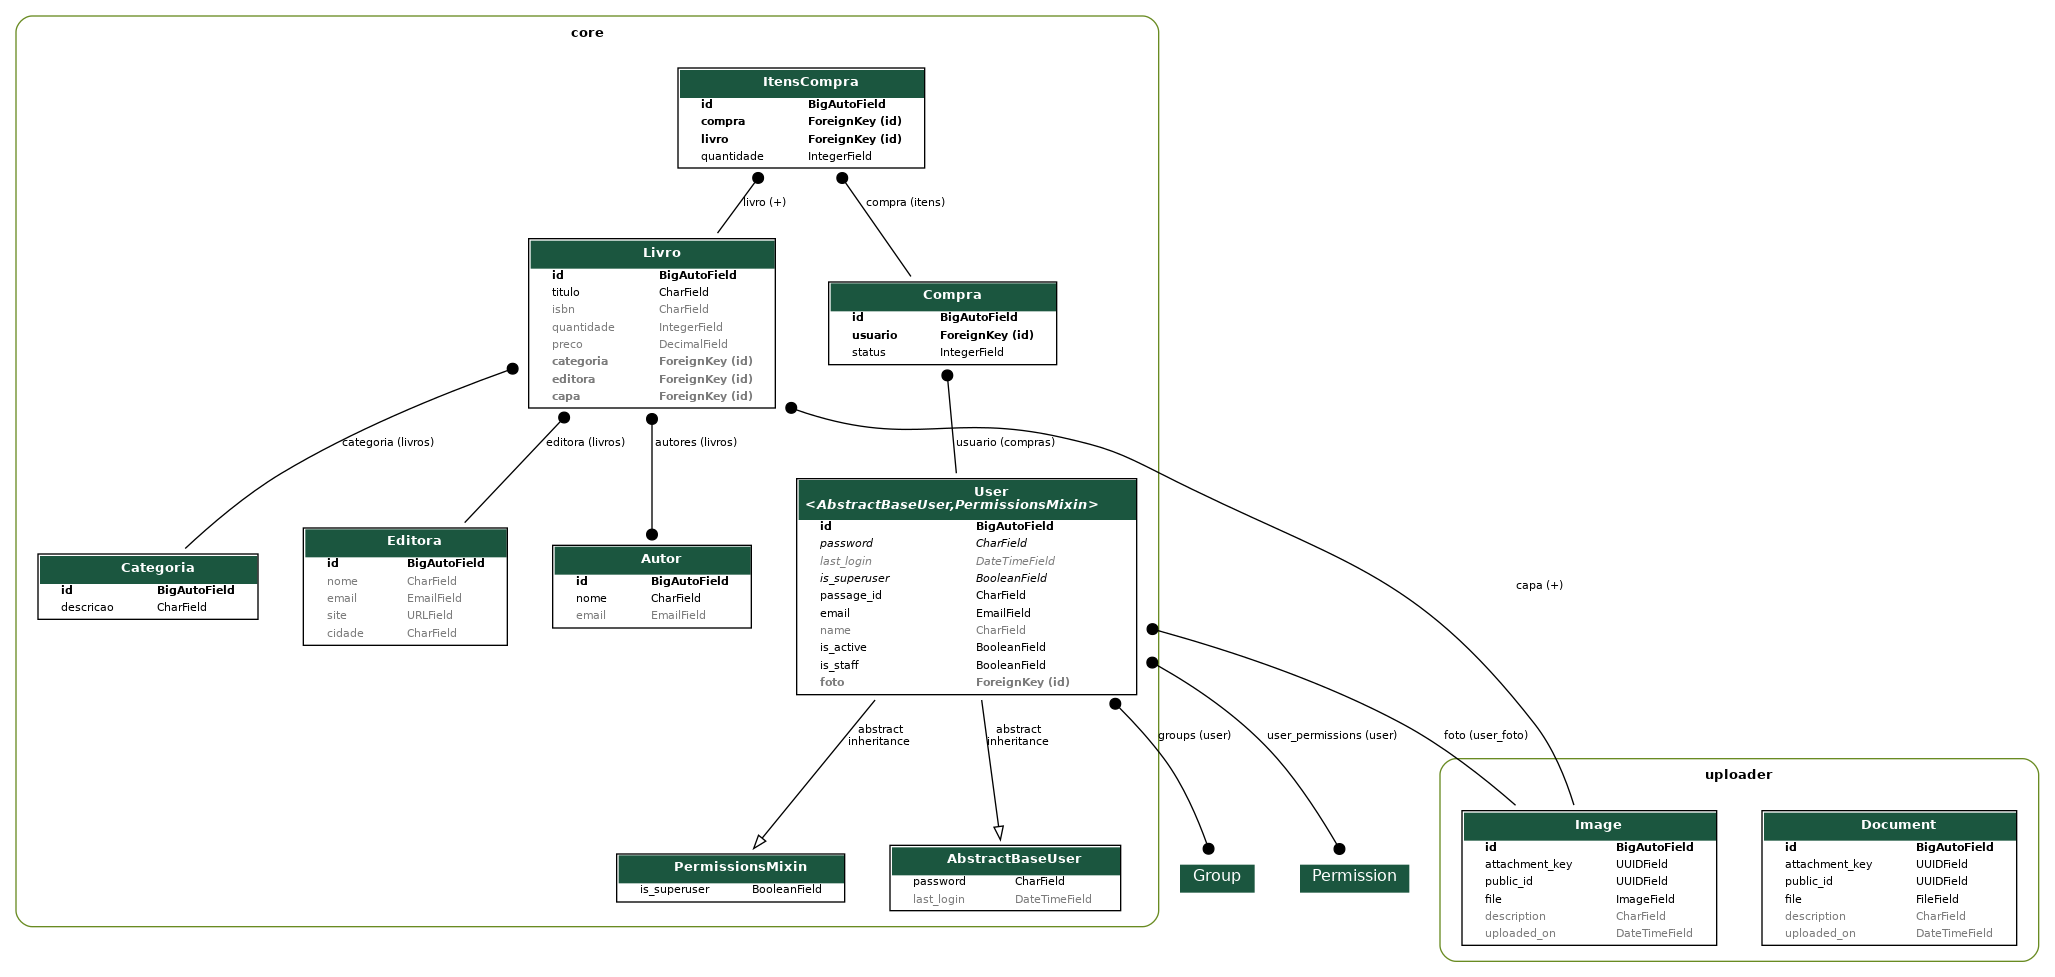
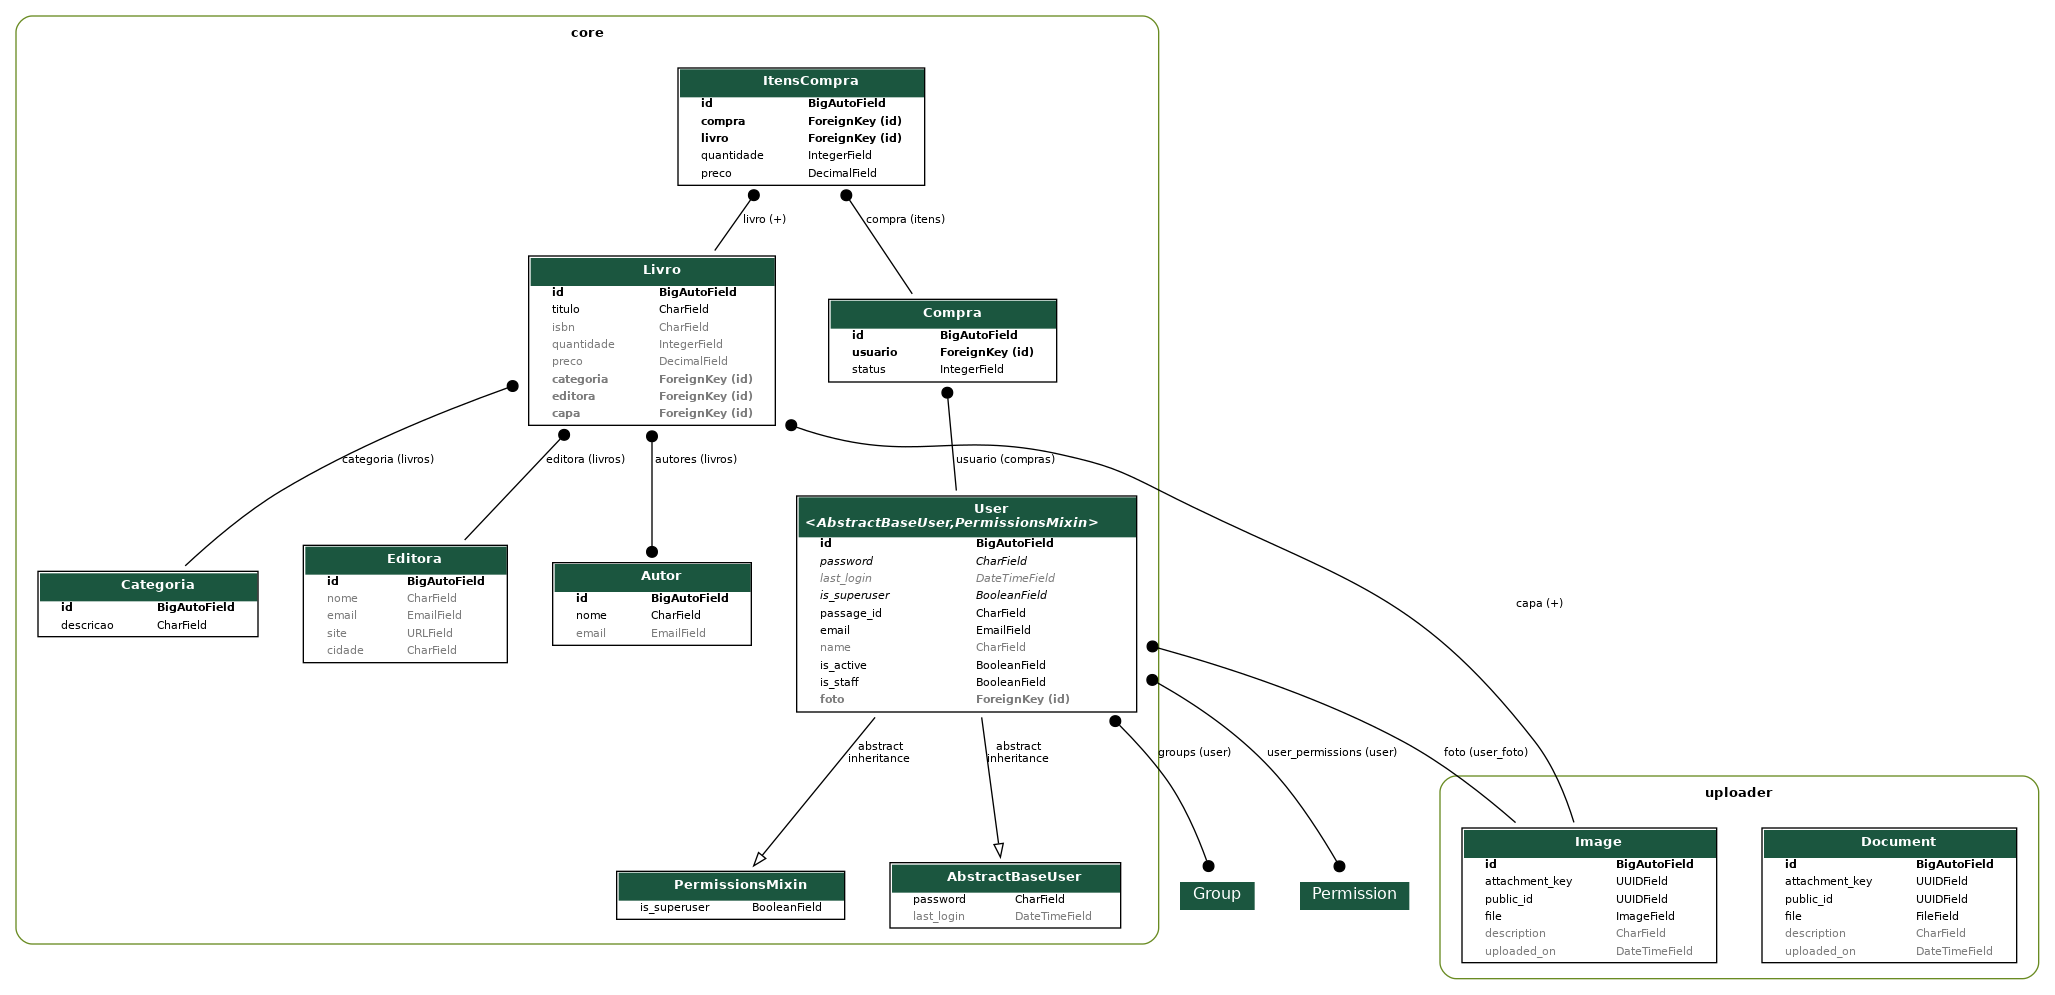
feat: Gravação do preço do livro no item da compra

diff --git a/core/serializers/compra.py b/core/serializers/compra.py
@@ -6,7 +6,7 @@ class ItensCompraCreateUpdateSerializer(ModelSerializer):
     
     class Meta:
         model = ItensCompra
-        fields = ('livro', 'quantidade')
+        fields = ('livro', 'quantidade', 'preco')
     
     def validate_quantidade(self, quantidade):
         if quantidade <= 0:
@@ -26,22 +26,25 @@ class CompraCreateUpdateSerializer(ModelSerializer):
         fields = ('usuario', 'itens')
         
     def update(self, compra, validated_data):
-        itens_data = validated_data.pop('itens', [])
-        if itens_data:
+        itens = validated_data.pop('itens')
+        if itens:
             compra.itens.all().delete()
-            for item_data in itens_data:
-                ItensCompra.objects.create(compra=compra, **item_data)
+            for item in itens:
+                item['preco'] = item['livro'].preco  
+                ItensCompra.objects.create(compra=compra, **item)
+        compra.save()
         return super().update(compra, validated_data)
-
+    
 class ItensCompraSerializer(ModelSerializer):
     total = SerializerMethodField()
     def get_total(self, instance):
-        return instance.livro.preco * instance.quantidade
+        return instance.quantidade * instance.preco
     class Meta:
         model = ItensCompra
-        fields = ('livro', 'quantidade', 'total')
+        fields = ('livro', 'quantidade', 'total', 'preco')
         
 class CompraSerializer(ModelSerializer):
+    total = SerializerMethodField()
     status = CharField(source='get_status_display', read_only=True)
     usuario = CharField(source='usuario.e-mail', read_only=True) 
     itens = ItensCompraSerializer(many=True, read_only=True)
@@ -52,12 +55,14 @@ class CompraSerializer(ModelSerializer):
         fields = ('id', 'usuario', 'status', 'total', 'itens')
         read_only_fields = ['id', 'usuario', 'status']
         
+    def get_total(self, obj):
+        return obj.total
 class ItensCompraListSerializer(ModelSerializer):
     livro = CharField(source='livro.titulo', read_only=True)
 
     class Meta:
         model = ItensCompra
-        fields = ('quantidade', 'livro')
+        fields = ('quantidade', 'livro' 'preco')
         depth = 1        
         
 class CompraListSerializer(ModelSerializer):

diff --git a/core/models/compra.py b/core/models/compra.py
@@ -17,11 +17,15 @@ class Compra(models.Model):
 
     def __str__(self):
         return f'Compra {self.id} - {self.get_status_display()} - {self.usuario.email}'
+    @property
+    def total(self):
+        return sum(item.total for item in self.itens.all())
     
 class ItensCompra(models.Model):
     compra = models.ForeignKey (Compra, on_delete= models.CASCADE, related_name="itens")
     livro = models.ForeignKey (Livro, on_delete= models.PROTECT, related_name="+")
     quantidade = models.IntegerField(default=1)
+    preco = models.DecimalField(max_digits=7, decimal_places=2, default=0)
     
     ...
     @property
@@ -30,4 +34,4 @@ class ItensCompra(models.Model):
         # for item in self.itens.all():
         #     total += item.livro.preco * item.quantidade
         # return total
-        return sum(item.livro.preco * item.quantidade for item in self.itens.all())
+       return self.preco * self.quantidade

diff --git a/core/views/compra.py b/core/views/compra.py
@@ -6,11 +6,12 @@ from core.serializers import CompraSerializer, CompraCreateUpdateSerializer, Com
 
 class CompraViewSet(ModelViewSet):
     queryset = Compra.objects.all()
+    serializer_class = CompraSerializer 
     
     def get_queryset(self):
         usuario = self.request.user
         if usuario.is_superuser:
             return Compra.objects.all()
-        if usuario.groups.filter(name='administradores'):
+        if usuario.groups.filter(name='administradores').exists():
             return Compra.objects.all()
         return Compra.objects.filter(usuario=usuario)

diff --git a/core/migrations/0004_itenscompra_preco.py b/core/migrations/0004_itenscompra_preco.py
@@ -1,0 +1,18 @@
+# Generated by Django 5.2.1 on 2025-09-05 17:10
+
+from django.db import migrations, models
+
+
+class Migration(migrations.Migration):
+
+    dependencies = [
+        ('core', '0003_user_foto'),
+    ]
+
+    operations = [
+        migrations.AddField(
+            model_name='itenscompra',
+            name='preco',
+            field=models.DecimalField(decimal_places=2, default=0, max_digits=7),
+        ),
+    ]
